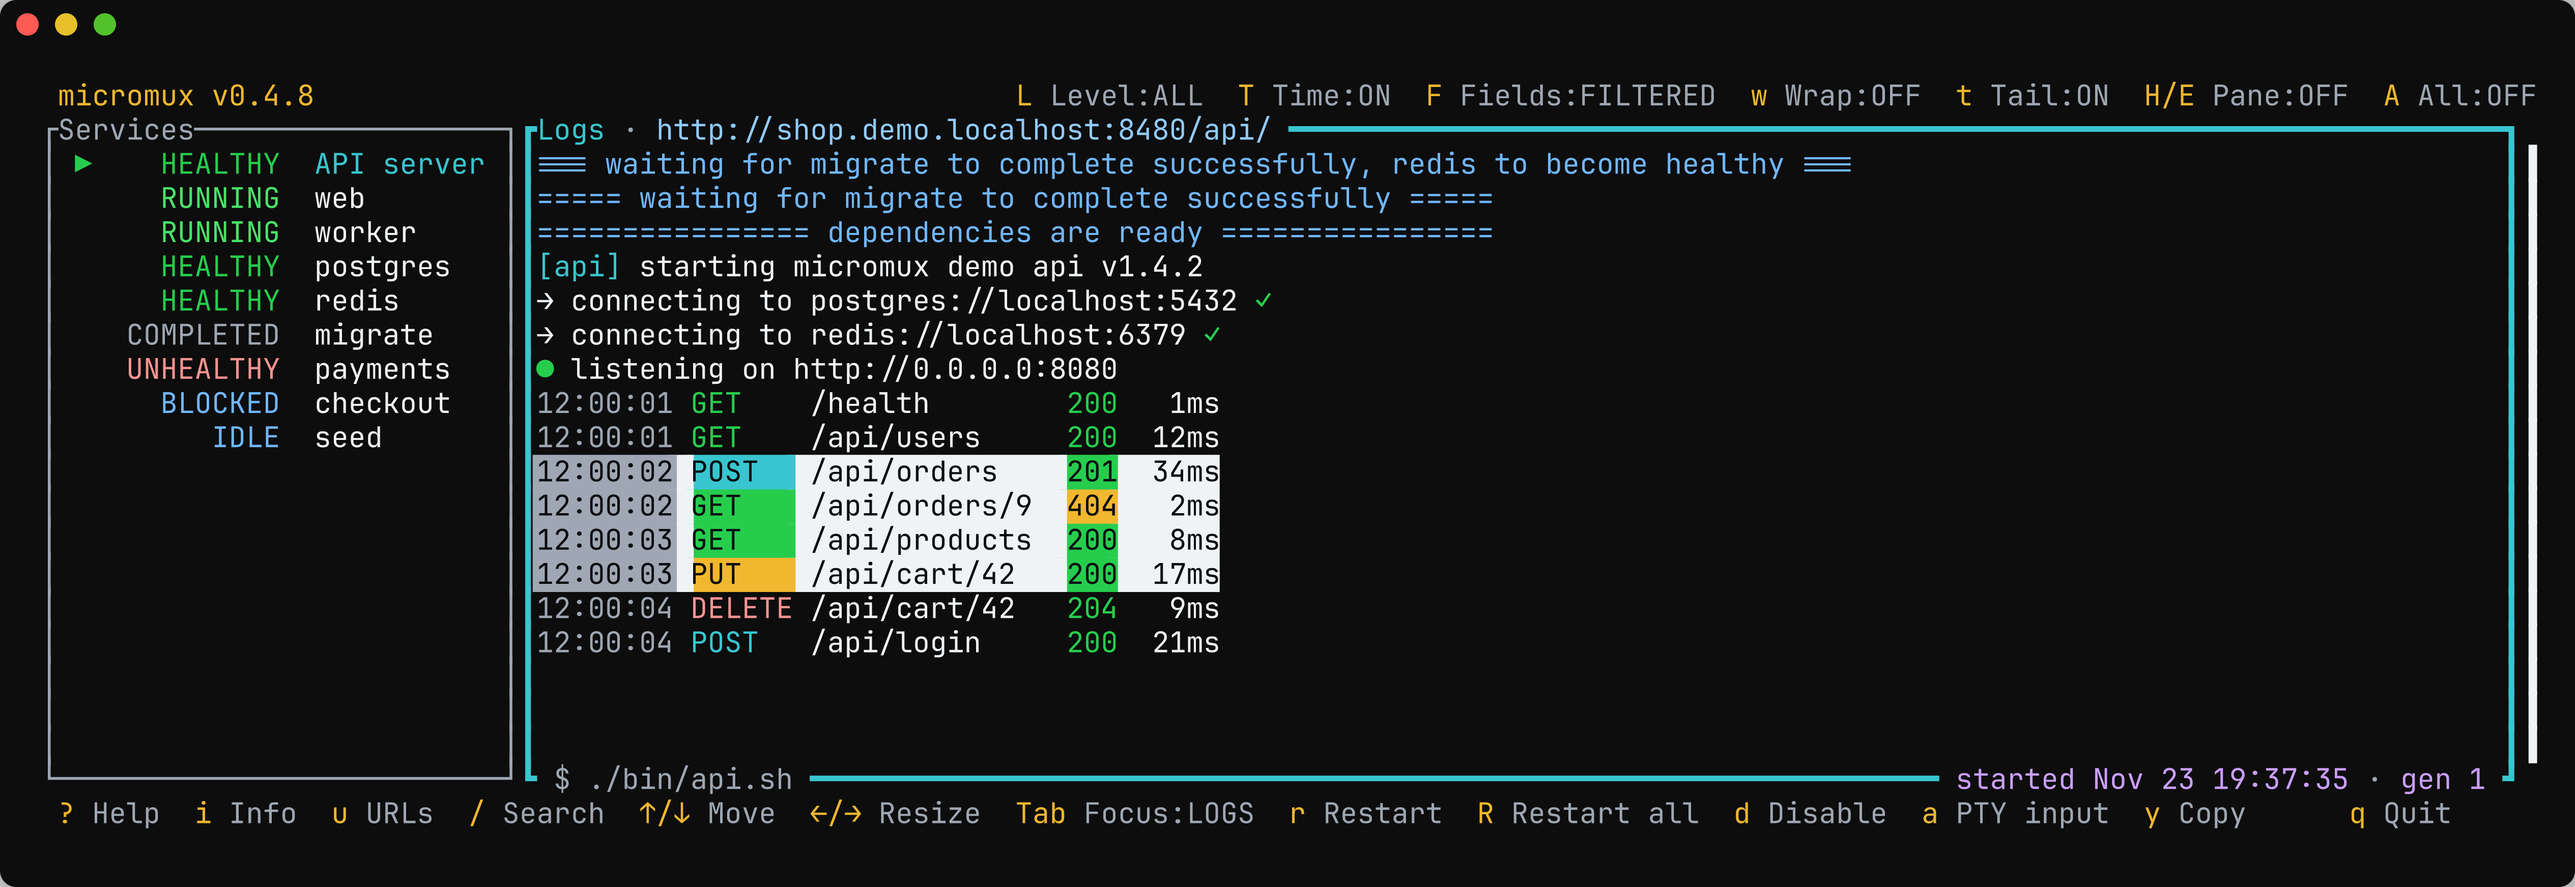
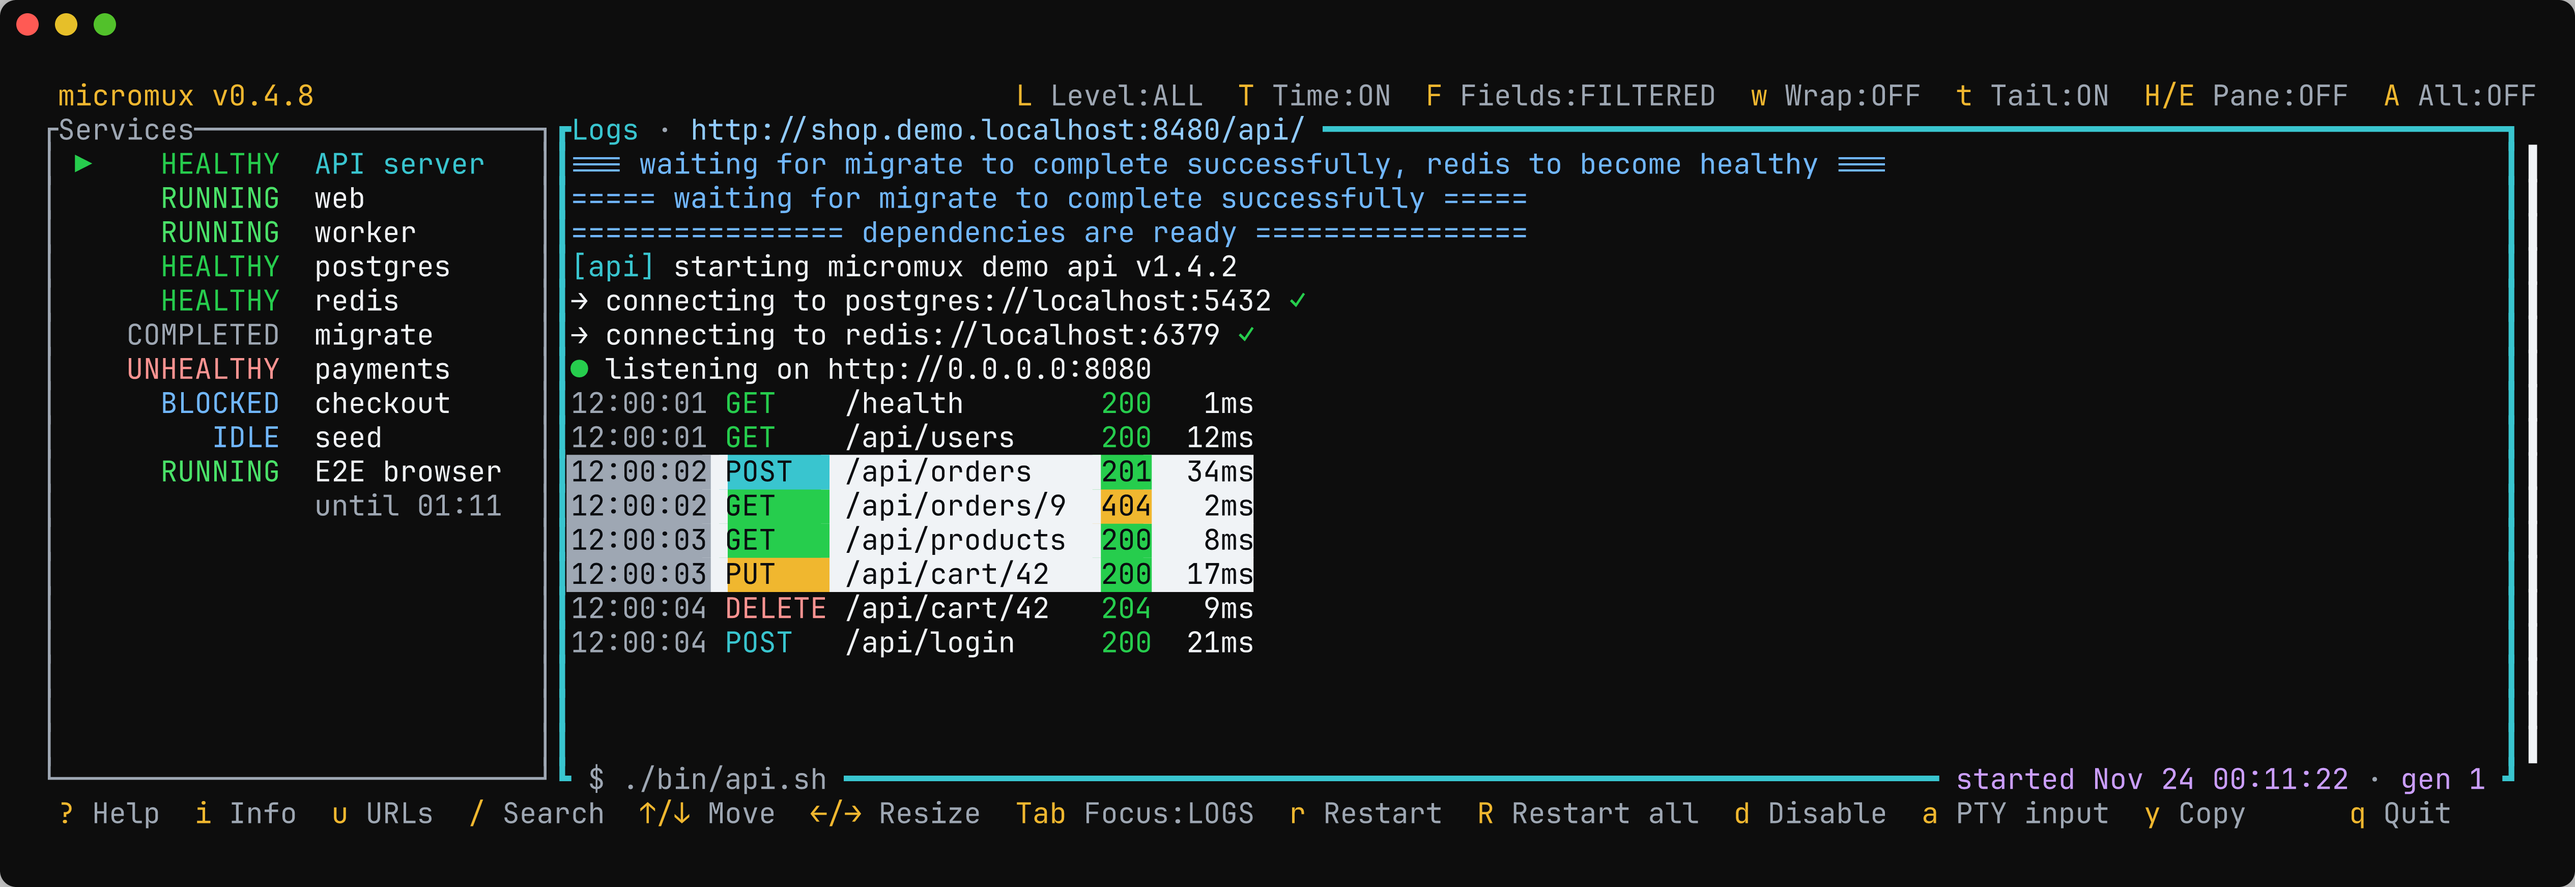
docs(tui): capture the shared resource scenes

Changed region(s): [[0.0625, 0.1239, 0.5933, 0.8979], [0.6245, 0.1548, 0.7182, 0.2167], [0.8431, 0.867, 0.9055, 0.8979]]

diff --git a/crates/micromux-screenshot/src/scenario.rs b/crates/micromux-screenshot/src/scenario.rs
@@ -13,6 +13,14 @@ pub(crate) struct Scenario {
     /// Keystrokes to send (each chunk is settled before the next), e.g. `b"H"` to open the
     /// healthcheck pane. Empty captures the default frame the config settles into.
     pub(crate) keys: &'static [&'static [u8]],
+    /// Text the screen must show before the keys are sent, for keys that act on a state the
+    /// session reaches only after its first frame.
+    pub(crate) ready: Option<&'static str>,
+    /// Text the screen must show once the keys were sent, for a frame that waits on something
+    /// the keys do not draw at once, such as a reservation's first read.
+    pub(crate) shows: Option<&'static str>,
+    /// Whether a neighboring worktree's session holds the demo's shared resource meanwhile.
+    pub(crate) neighbor: bool,
 }
 
 /// Terminal width every scenario captures at: the narrowest that keeps the footer's key hints on
@@ -21,9 +29,9 @@ const COLS: NonZeroU16 = NonZeroU16::new(146).unwrap();
 /// Terminal height every scenario captures at.
 const ROWS: NonZeroU16 = NonZeroU16::new(22).unwrap();
 
-/// Shrinks the services sidebar from its initial 40 columns to the 28 its rows need, which leaves
-/// the rest to the logs.
-const NARROW_SIDEBAR: &[u8] = b"------";
+/// Shrinks the services sidebar from its initial 40 columns to the 30 its rows need with a column
+/// to spare, which leaves the rest to the logs.
+const NARROW_SIDEBAR: &[u8] = b"-----";
 
 pub(crate) const SCENARIOS: &[Scenario] = &[
     // The dashboard: the default frame the config settles into, `api` selected with its logs.
@@ -32,6 +40,9 @@ pub(crate) const SCENARIOS: &[Scenario] = &[
         cols: COLS,
         rows: ROWS,
         keys: &[NARROW_SIDEBAR],
+        ready: None,
+        shows: None,
+        neighbor: false,
     },
     // Healthcheck diagnostics: navigate down to the unhealthy `payments` service (6 rows below the
     // initial `api` selection), open the healthcheck pane with `H`, then enable wrap with `w` so the
@@ -41,6 +52,9 @@ pub(crate) const SCENARIOS: &[Scenario] = &[
         cols: COLS,
         rows: ROWS,
         keys: &[NARROW_SIDEBAR, b"jjjjjj", b"H", b"w"],
+        ready: None,
+        shows: None,
+        neighbor: false,
     },
     // Service management: select `web` (one row below `api`) and disable it with `d`. Its sidebar
     // row turns gray (DISABLED) and the process is stopped, while its captured logs remain.
@@ -49,6 +63,9 @@ pub(crate) const SCENARIOS: &[Scenario] = &[
         cols: COLS,
         rows: ROWS,
         keys: &[NARROW_SIDEBAR, b"j", b"d"],
+        ready: None,
+        shows: None,
+        neighbor: false,
     },
     // Structured logs: select `worker` (two rows below `api`), whose JSON records lead with their
     // timestamps while the fields its config hides stay out of the pane.
@@ -57,20 +74,26 @@ pub(crate) const SCENARIOS: &[Scenario] = &[
         cols: COLS,
         rows: ROWS,
         keys: &[NARROW_SIDEBAR, b"jj"],
+        ready: None,
+        shows: None,
+        neighbor: false,
     },
     // Mouse selection: a drag over four of `api`'s request lines, sent as SGR mouse reports with
     // one-based columns and rows, highlights them, and the footer offers `y` to copy them.
-    // The logs' text starts in column 30, and the 12:00:02 POST line is drawn on row 12.
+    // The logs' text starts in column 32, and the 12:00:02 POST line is drawn on row 12.
     Scenario {
         name: "mouse-selection",
         cols: COLS,
         rows: ROWS,
         keys: &[
             NARROW_SIDEBAR,
-            b"\x1b[<0;30;12M",
-            b"\x1b[<32;69;15M",
-            b"\x1b[<0;69;15m",
+            b"\x1b[<0;32;12M",
+            b"\x1b[<32;71;15M",
+            b"\x1b[<0;71;15m",
         ],
+        ready: None,
+        shows: None,
+        neighbor: false,
     },
     // Service details: `i` opens the popup that describes the selected `api` service in full.
     Scenario {
@@ -78,5 +101,32 @@ pub(crate) const SCENARIOS: &[Scenario] = &[
         cols: COLS,
         rows: ROWS,
         keys: &[NARROW_SIDEBAR, b"i"],
+        ready: None,
+        shows: None,
+        neighbor: false,
+    },
+    // A shared service this session holds: `e2e` (nine rows below `api`) runs while the session
+    // holds `browser`, which its note under the name and the reservation pane above the logs say.
+    // The sidebar keeps its width so the note fits.
+    Scenario {
+        name: "reservation-held",
+        cols: COLS,
+        rows: ROWS,
+        keys: &[b"jjjjjjjjj"],
+        ready: None,
+        shows: Some("this session"),
+        neighbor: false,
+    },
+    // A shared service another worktree holds: the neighbor took `browser` first, so `e2e` did
+    // not start; enabling it with `d` queues it behind the holder, as its notes and the pane say.
+    // `d` waits for the refused start, which it would otherwise disable before it is refused.
+    Scenario {
+        name: "reservation-queued",
+        cols: COLS,
+        rows: ROWS,
+        keys: &[b"jjjjjjjjj", b"d"],
+        ready: Some("held by payments-fix"),
+        shows: Some("in queue"),
+        neighbor: true,
     },
 ];

diff --git a/crates/micromux-screenshot/src/neighbor.rs b/crates/micromux-screenshot/src/neighbor.rs
@@ -1,0 +1,113 @@
+//! A session of a neighboring worktree that holds the demo's shared resource, so a scenario can
+//! show the demo queueing for it.
+
+use crate::Error;
+use std::path::{Path, PathBuf};
+use std::process::{Child, Command, Stdio};
+use std::time::{Duration, Instant};
+
+/// The resource the demo's `e2e` service names, `resource` in `examples/demo/micromux.yaml`.
+const RESOURCE: &str = "browser";
+
+/// The neighbor's config: one service that needs the demo's resource.
+const CONFIG: &str = "version: 1\nservices:\n  e2e:\n    command: [\"sleep\", \"1000000\"]\n    \
+                      resource: browser\n";
+
+/// A headless `micromux serve` in a sibling worktree that holds [`RESOURCE`], stopped when
+/// dropped.
+pub(crate) struct Neighbor {
+    micromux: PathBuf,
+    home: PathBuf,
+    state_dir: PathBuf,
+    project: PathBuf,
+    child: Child,
+}
+
+impl Neighbor {
+    /// Start the neighbor in `project` with `home` and `state_dir`, and wait until it holds
+    /// [`RESOURCE`] with a reason the demo shows.
+    pub(crate) fn start(
+        micromux: &Path,
+        home: &Path,
+        state_dir: &Path,
+        project: &Path,
+    ) -> Result<Self, Error> {
+        const MAX_WAIT: Duration = Duration::from_secs(15);
+
+        std::fs::create_dir_all(project)?;
+        std::fs::write(project.join("micromux.yaml"), CONFIG)?;
+        let child = Command::new(micromux)
+            .arg("serve")
+            .current_dir(project)
+            .env("HOME", home)
+            .env("MICROMUX_STATE_DIR", state_dir)
+            .stdin(Stdio::null())
+            .stdout(Stdio::null())
+            .stderr(Stdio::null())
+            .spawn()?;
+        let neighbor = Self {
+            micromux: micromux.to_path_buf(),
+            home: home.to_path_buf(),
+            state_dir: state_dir.to_path_buf(),
+            project: project.to_path_buf(),
+            child,
+        };
+        // The reservation fails until the session answers; once it does, the session holds the
+        // resource, which nobody else wants yet, and records why.
+        let started = Instant::now();
+        while started.elapsed() < MAX_WAIT {
+            let reserved = neighbor
+                .ctl()
+                .args([
+                    "reserve",
+                    RESOURCE,
+                    "--reason",
+                    "checkout e2e run",
+                    "--for",
+                    "45m",
+                ])
+                .status()?;
+            if reserved.success() {
+                return Ok(neighbor);
+            }
+            std::thread::sleep(Duration::from_millis(200));
+        }
+        Err(Error::NeighborNotReady {
+            project: project.to_path_buf(),
+        })
+    }
+
+    /// A `micromux ctl` command for the neighbor's session.
+    fn ctl(&self) -> Command {
+        let mut command = Command::new(&self.micromux);
+        command
+            .arg("ctl")
+            .current_dir(&self.project)
+            .env("HOME", &self.home)
+            .env("MICROMUX_STATE_DIR", &self.state_dir)
+            .stdin(Stdio::null())
+            .stdout(Stdio::null())
+            .stderr(Stdio::null());
+        command
+    }
+}
+
+impl Drop for Neighbor {
+    /// Stops the session, which stops its service and gives the resource up, and kills it if it
+    /// is still running after a few seconds.
+    fn drop(&mut self) {
+        if let Err(err) = self.ctl().arg("stop").status() {
+            eprintln!("failed to ask the neighbor session to stop: {err}");
+        }
+        let deadline = Instant::now() + Duration::from_secs(5);
+        while Instant::now() < deadline {
+            if matches!(self.child.try_wait(), Ok(Some(_))) {
+                return;
+            }
+            std::thread::sleep(Duration::from_millis(50));
+        }
+        if let Err(err) = self.child.kill().and_then(|()| self.child.wait().map(drop)) {
+            eprintln!("failed to stop the neighbor session: {err}");
+        }
+    }
+}

diff --git a/crates/micromux-screenshot/src/capture.rs b/crates/micromux-screenshot/src/capture.rs
@@ -97,10 +97,24 @@ pub(crate) fn capture(
         });
     }
 
-    for keys in scenario.keys {
-        writer.write_all(keys)?;
-        writer.flush().ok();
-        settle(&rx, &mut parser);
+    // The text the screen never showed, if any; the capture fails once micromux quit.
+    let mut missing = scenario
+        .ready
+        .filter(|text| !wait_for_text(&rx, &mut parser, text));
+    if missing.is_none() {
+        for keys in scenario.keys {
+            writer.write_all(keys)?;
+            writer.flush().ok();
+            settle(&rx, &mut parser);
+        }
+        if let Some(text) = scenario.shows {
+            wait_for_text(&rx, &mut parser, text);
+            settle(&rx, &mut parser);
+        }
+        // The saved frame itself must show it, not only one before it.
+        missing = scenario
+            .shows
+            .filter(|text| !parser.screen().contents().contains(text));
     }
 
     let screen = parser.screen().clone();
@@ -114,7 +128,13 @@ pub(crate) fn capture(
     drop(rx);
     let _ = reader_thread.join();
 
-    Ok(screen)
+    match missing {
+        Some(text) => Err(Error::MissingText {
+            scenario: scenario.name,
+            text,
+        }),
+        None => Ok(screen),
+    }
 }
 
 /// Feed PTY output into `parser` until the TUI drew its first frame, which shows the services
@@ -158,6 +178,23 @@ fn wait_for_first_frame(
         }
     }
     false
+}
+
+/// Feed PTY output into `parser` until the screen shows `text`, for at most ten seconds, and
+/// return whether it did.
+fn wait_for_text(rx: &mpsc::Receiver<Vec<u8>>, parser: &mut vt100::Parser, text: &str) -> bool {
+    let deadline = Instant::now() + Duration::from_secs(10);
+    while !parser.screen().contents().contains(text) {
+        if Instant::now() >= deadline {
+            return false;
+        }
+        match rx.recv_timeout(Duration::from_millis(100)) {
+            Ok(chunk) => parser.process(&chunk),
+            Err(RecvTimeoutError::Timeout) => {}
+            Err(RecvTimeoutError::Disconnected) => return false,
+        }
+    }
+    true
 }
 
 /// Drive the parser until the rendered screen stops changing.

diff --git a/crates/micromux-screenshot/src/main.rs b/crates/micromux-screenshot/src/main.rs
@@ -10,10 +10,12 @@
 mod ansi;
 mod capture;
 mod freeze;
+mod neighbor;
 mod proxy;
 mod scenario;
 mod theme;
 
+use crate::neighbor::Neighbor;
 use crate::proxy::Proxy;
 use crate::scenario::SCENARIOS;
 use crate::theme::THEMES;
@@ -62,6 +64,16 @@ pub(crate) enum Error {
     ProxyPortTaken { port: u16 },
     #[error("the demo proxy did not listen on port {port} in time")]
     ProxyNotReady { port: u16 },
+    #[error(
+        "the neighbor session in {} did not take the demo's resource in time",
+        project.display()
+    )]
+    NeighborNotReady { project: PathBuf },
+    #[error("scenario {scenario} never showed {text:?}, so its screenshot would be wrong")]
+    MissingText {
+        scenario: &'static str,
+        text: &'static str,
+    },
 }
 
 impl Error {
@@ -103,7 +115,16 @@ fn main() -> Result<(), Error> {
     let proxy = Proxy::start(&micromux, &state_dir)?;
 
     for scenario in SCENARIOS {
+        // A worktree next to the demo's, as the session holding a shared resource usually is.
+        let neighbor = scenario
+            .neighbor
+            .then(|| {
+                let project = home.join("dev").join("payments-fix");
+                Neighbor::start(&micromux, &home, &state_dir, &project)
+            })
+            .transpose()?;
         let screen = capture::capture(&micromux, &home, &state_dir, &example_dir, scenario)?;
+        drop(neighbor);
 
         for theme in &THEMES {
             let ansi =
